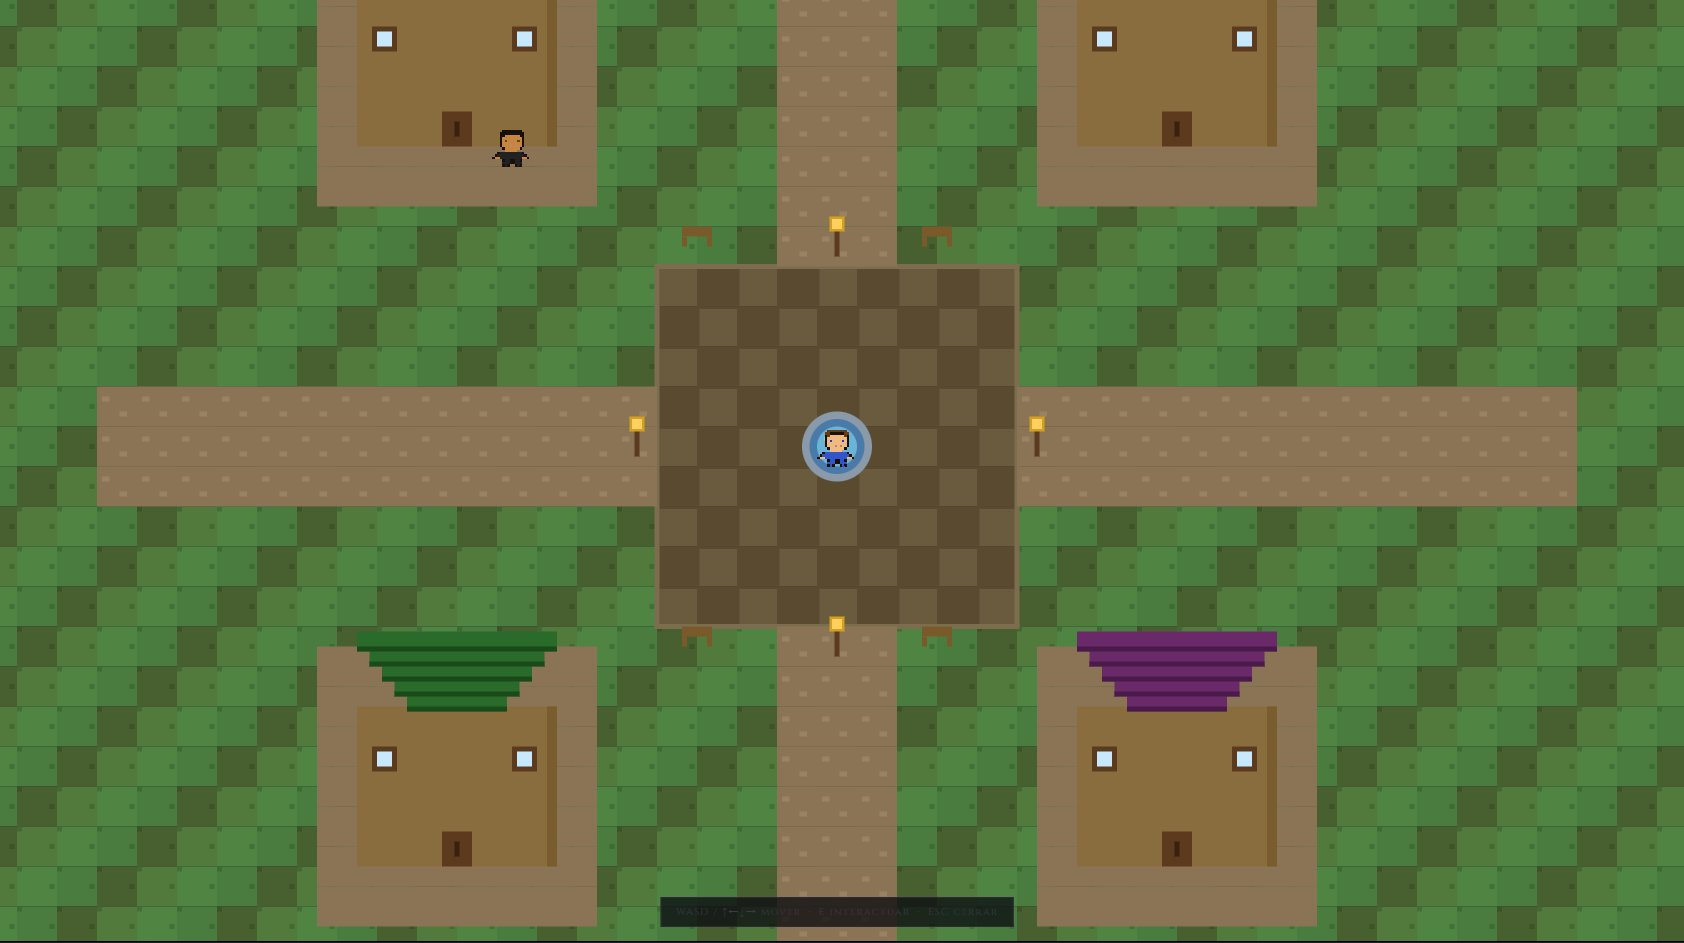
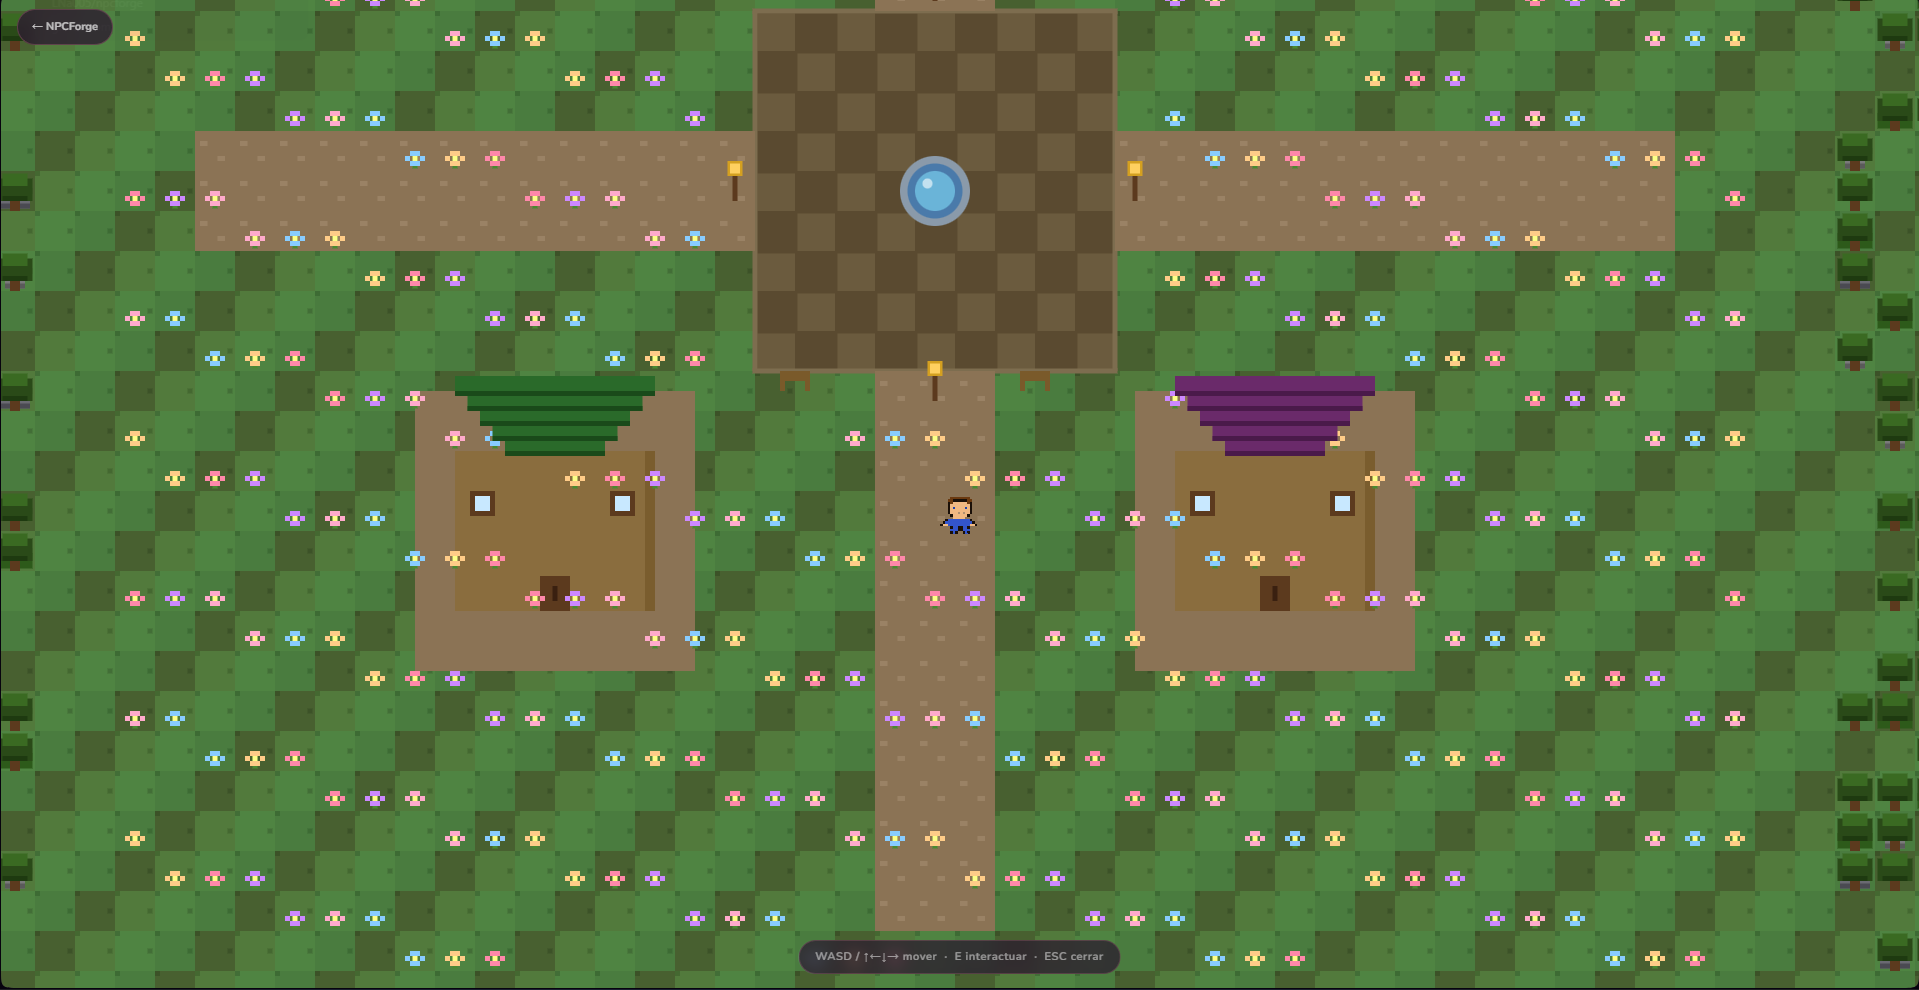
readme

diff --git a/README.md b/README.md
@@ -1,14 +1,25 @@
 <div align="center">
 
+<img src="screenshots/screen_app.png" width="100%" style="border-radius:12px"/>
+
+<br/>
+<br/>
+
 # 🌸 NPCForge ✨
 
-**De la vida real a tu propia aldea virtual 🎀**
+<p>
+  <img src="https://img.shields.io/badge/✦_estado-en_desarrollo-ffb3c6?style=for-the-badge&labelColor=fce4f0"/>
+  <img src="https://img.shields.io/badge/🎮_engine-Phaser_3-d4bfee?style=for-the-badge&labelColor=ede0f8"/>
+  <img src="https://img.shields.io/badge/🤖_IA-Mistral_AI-a8dfc4?style=for-the-badge&labelColor=dff0f4"/>
+  <img src="https://img.shields.io/badge/💾_storage-localStorage-f8c8a8?style=for-the-badge&labelColor=feeee4"/>
+</p>
 
-*Convierte a las personas de tu entorno en NPCs interactivos con análisis psicológico generado por IA ⚡*
+### *Convierte a las personas de tu vida en personajes de RPG*
+### *y vívelos en tu propia aldea virtual* 🎀
 
-![estado](https://img.shields.io/badge/estado-en%20desarrollo-ff6b6b?style=flat-square)
-![stack](https://img.shields.io/badge/stack-vanilla%20js%20%2B%20phaser3-c9a84c?style=flat-square)
-![ia](https://img.shields.io/badge/IA-Mistral-7b5ea7?style=flat-square)
+<br/>
+
+[✦ Ver la app](https://lna005.github.io/npcforge/) &nbsp;&nbsp;·&nbsp;&nbsp; [🌸 Jugar](https://lna005.github.io/npcforge/game/index.html) &nbsp;&nbsp;·&nbsp;&nbsp; [📋 Hoja de ruta](#-hoja-de-ruta)
 
 </div>
 
@@ -16,9 +27,19 @@
 
 ## 💜 ¿Qué es NPCForge?
 
-Describes a alguien de tu vida. La IA genera una **ficha RPG psicológica** completa — stats, motivación oculta, punto débil, cómo ganarte su confianza y misiones de relación 🔮
+> Describes a alguien de tu vida. La IA genera una **ficha RPG psicológica** completa — stats, motivación oculta, punto débil, cómo ganarte su confianza y misiones de relación 🔮
 
-Luego diseñas su sprite en pixel art, lo guardas en tu aldea, y puedes **explorar un mapa top-down** donde caminarás por una aldea con casas, plaza y NPCs que deambulan libremente, responden en personaje y evolucionan según cómo los tratas ⚡
+Diseñas su sprite en pixel art. Lo guardas en tu aldea. Exploras un mapa top-down donde los NPCs deambulan libremente, te responden en personaje y **evolucionan según cómo los tratas** ⚡
+
+<br/>
+
+<div align="center">
+
+| 🧠 Analiza | 🎨 Diseña | 🗺 Explora | 💬 Habla |
+|:---:|:---:|:---:|:---:|
+| La IA convierte a una persona real en una ficha RPG psicológica | Diseña su sprite pixel art 16×16 con el editor integrado | Pasea por la aldea y visita sus casas en el mapa top-down | Habla con ellos en personaje — con opciones de diálogo y misiones |
+
+</div>
 
 ---
 
@@ -26,39 +47,85 @@ Luego diseñas su sprite en pixel art, lo guardas en tu aldea, y puedes **explor
 
 <div align="center">
 
-### 🌸 Generador de fichas RPG
+<table>
+<tr>
+<td width="50%">
+
+**🌸 Generador de fichas**
 ![App](screenshots/screen_app.png)
 
-### 🌸 Aldea explorable
+</td>
+<td width="50%">
+
+**🌸 Aldea explorable**
 ![Game](screenshots/screen_game.png)
+
+</td>
+</tr>
+</table>
 
 </div>
 
 ---
 
-## 🌟 Lo que ya funciona
+## 🌟 Features
 
-🌸 Generación de ficha RPG completa con IA (Mistral)  
-🌸 6 stats psicológicos animados  
-🌸 Editor de sprite pixel art 16×16  
-🌸 Galería "Mi aldea" con tarjetas  
-🌸 Mapa top-down explorable con Phaser.js — pantalla completa  
-🌸 Plaza central con adoquines, fuente, faroles y bancos  
-🌸 Una casa por cada NPC con tejado de color único  
-🌸 Nombre del NPC sobre la puerta de su casa  
-🌸 Nombre flotante encima del sprite del NPC en el mapa  
-🌸 NPCs con movimiento libre (wandering por su zona)  
-🌸 Colisionadores en casas, árboles y fuente  
-🌸 Avatar del jugador personalizable con editor de sprite  
-🌸 Chat con NPCs en personaje vía Mistral  
-🌸 Teclado capturado correctamente durante el chat  
-🌸 Opciones de diálogo clicables — la IA decide cuándo presentarlas  
-🌸 Panel de misiones activas — aparece al acercarte a un NPC  
-🌸 Misiones que se completan automáticamente durante el chat  
-🌸 Notificación dorada al completar una misión  
-🌸 Stats que evolucionan según cómo hablas con el NPC  
-🌸 Chips de cambio de stats visibles en el chat (+/- por cada stat)  
-🌸 Sin servidor, sin registro — todo en `localStorage` 🌷  
+<details open>
+<summary><b>🎮 Juego & Mapa</b></summary>
+<br/>
+
+- 🌸 Mapa top-down explorable — pantalla completa con Phaser.js
+- 🌸 Plaza central con adoquines, fuente, faroles y bancos
+- 🌸 Una casa por cada NPC con tejado de color único
+- 🌸 Bosque exterior con árboles de 3 tamaños distintos
+- 🌸 Arbustos y rocas decorativas en el bosque
+- 🌸 Flores de colores pastel en la zona central
+- 🌸 Lago con colisionador en la esquina del mapa
+- 🌸 NPCs con movimiento libre por su zona
+- 🌸 Avatar del jugador personalizable
+
+</details>
+
+<details open>
+<summary><b>💬 Chat & Misiones</b></summary>
+<br/>
+
+- 🌸 Chat con NPCs en personaje vía Mistral AI
+- 🌸 Opciones de diálogo clicables — la IA decide cuándo presentarlas
+- 🌸 Panel de misiones activas al acercarte a un NPC
+- 🌸 Misiones que se completan automáticamente durante el chat
+- 🌸 Notificación animada al completar una misión
+
+</details>
+
+<details open>
+<summary><b>📈 Stats & Relaciones</b></summary>
+<br/>
+
+- 🌸 6 stats psicológicos que **evolucionan** según cómo hablas
+- 🌸 Chips visuales de cambio de stat en el chat
+- 🌸 Nivel de relación global que cambia en tiempo real
+
+| Nivel | Emoji | Condición |
+|---|:---:|---|
+| Desconocida | 🌫 | Estado inicial |
+| Conocida | 🌸 | Primeras conversaciones positivas |
+| Aliada | 💜 | Alta empatía y lealtad |
+| Rival | ⚔ | Manipulación o ego elevados |
+| Enemiga | 💀 | Relación muy deteriorada |
+
+</details>
+
+<details open>
+<summary><b>🎨 Diseño & UX</b></summary>
+<br/>
+
+- 🌸 Tema pastel girlie en toda la app
+- 🌸 Fuentes Playfair Display + Nunito
+- 🌸 Animaciones y micro-interacciones
+- 🌸 Sin servidor, sin registro — todo en `localStorage`
+
+</details>
 
 ---
 
@@ -66,87 +133,100 @@ Luego diseñas su sprite en pixel art, lo guardas en tu aldea, y puedes **explor
 
 ```
 npcforge/
-├── index.html
-├── README.md
-├── screenshots/
-│   ├── screen_app.png
-│   └── screen_game.png
-├── css/
-│   ├── base.css
-│   ├── layout.css
-│   └── sheet.css
-├── js/
-│   ├── storage.js
-│   ├── gemini.js        ← Mistral API
-│   ├── sprite-editor.js
-│   └── app.js
-└── game/
-    ├── index.html
-    ├── css/
-    │   └── game.css
-    └── js/
-        ├── world.js     ← Mapa Phaser
-        ├── dialog.js    ← Chat con opciones de diálogo
-        ├── missions.js  ← Sistema de misiones
-        └── stats.js     ← Stats dinámicos
+├── 📄 index.html
+├── 📁 screenshots/
+├── 📁 css/
+│   ├── base.css          ✦ Variables, fuentes, animaciones
+│   ├── layout.css        ✦ Header, formulario, galería
+│   └── sheet.css         ✦ Ficha RPG + editor de sprite
+├── 📁 js/
+│   ├── storage.js        ✦ CRUD localStorage
+│   ├── gemini.js         ✦ Mistral API
+│   ├── sprite-editor.js  ✦ Editor pixel art 16×16
+│   └── app.js            ✦ Controlador principal
+└── 📁 game/
+    ├── 📄 index.html
+    ├── 📁 css/
+    │   └── game.css      ✦ Estilos del juego
+    └── 📁 js/
+        ├── world.js      ✦ Mapa Phaser, NPCs, decoración
+        ├── dialog.js     ✦ Chat con opciones de diálogo
+        ├── missions.js   ✦ Sistema de misiones
+        └── stats.js      ✦ Stats dinámicos + relaciones
 ```
 
 ---
 
 ## 🗺 Hoja de ruta
 
+### 🐛 Pendiente / bugs
+- [ ] 🌊 Mejorar el lago — forma y detalle visual
+- [ ] 🌸 Quitar flores de encima de caminos y casas
+- [ ] 📸 Actualizar screenshots con el nuevo diseño pastel
+
+### 📋 Fase 4 — Misiones *(completada)*
+- [x] 🌸 Panel HUD con misiones activas
+- [x] 🌸 Completar misiones durante el chat con IA
+- [x] 🌸 Notificación animada al completar
+- [x] 🌸 Opciones de diálogo clicables
+
 ### 📈 Fase 5 — Relaciones vivas *(en progreso)*
-- [x] 🌸 Stats que evolucionan según cómo hablas con el NPC
-- [x] 🌸 Chips visuales de cambio de stat en el chat
-- [ ] 🌸 Nivel de relación global (desconocido → aliado → rival…)
+- [x] 🌸 Stats evolutivos con chips visuales
+- [x] 🌸 Nivel de relación global (5 estados)
+- [x] 🌸 Badge de relación en tiempo real
 - [ ] 🌸 Historial de relación con cada NPC
 
 ### 🎮 Fase 6 — Animaciones
 - [ ] 🌸 Caminar en 4 direcciones (sprite sheet)
 - [ ] 🌸 Idle animation
-- [ ] 🌸 Animación de NPCs más natural
+- [ ] 🌸 Movimiento más natural de los NPCs
 
 ### 📱 Fase 7 — App nativa
-- [ ] 🌸 Versión de escritorio (Electron o Tauri)
-- [ ] 🌸 Versión móvil (Capacitor o PWA)
-- [ ] 🌸 Controles táctiles para el mapa
+- [ ] 🌸 Escritorio (Electron o Tauri)
+- [ ] 🌸 Móvil (Capacitor o PWA)
+- [ ] 🌸 Controles táctiles
 
 ### 🌐 Fase 8 — Servidor y multijugador
 - [ ] 🌸 Backend propio (Node.js + base de datos)
-- [ ] 🌸 Registro y login de usuarios
+- [ ] 🌸 Login y cuentas de usuario
 - [ ] 🌸 Aldeas guardadas en la nube
-- [ ] 🌸 Multijugador — *por definir* (¿visitar aldeas ajenas? ¿eventos globales? ¿NPCs compartidos?)
+- [ ] 🌸 Multijugador *(por definir)*
 
 ### 🌈 Ideas futuras
 - [ ] 🌸 Exportar ficha como imagen compartible
-- [ ] 🌸 Comparar dos NPCs
-- [ ] 🌸 Backup / import JSON de la aldea completa
-- [ ] 🌸 Explorar aldeas públicas de otros jugadores
-- [ ] 🌸 Música y efectos de sonido ambient
+- [ ] 🌸 Comparar dos NPCs cara a cara
+- [ ] 🌸 Música ambient y efectos de sonido
 - [ ] 🌸 Ciclo día/noche en el mapa
+- [ ] 🌸 Explorar aldeas públicas de otros jugadores
 
 ---
 
-## 🛠 Stack actual
+## 🛠 Stack
 
-🍦 **Vanilla JS** — sin frameworks, sin npm  
-🤖 **Mistral AI** — `mistral-small-latest`, free tier  
-🎮 **Phaser 3** — motor 2D via CDN  
-💾 **localStorage** — persistencia local  
-🎨 **CSS custom properties** — theming completo  
+<div align="center">
 
-## 🔭 Stack futuro *(tentativo)*
+| Capa | Tecnología | Notas |
+|---|---|---|
+| Frontend | Vanilla JS | Sin frameworks, sin npm |
+| Motor de juego | Phaser 3 | Via CDN |
+| IA | Mistral AI `mistral-small-latest` | Free tier |
+| Persistencia | localStorage | Sin servidor |
+| Fuentes | Playfair Display + Nunito | Google Fonts |
+| *(futuro)* App nativa | Electron / Tauri / Capacitor | — |
+| *(futuro)* Servidor | Node.js + Express | — |
+| *(futuro)* Base de datos | PostgreSQL o SQLite | — |
+| *(futuro)* Tiempo real | WebSockets | Para multijugador |
 
-🖥 **Electron / Tauri** — app de escritorio  
-📱 **Capacitor / PWA** — app móvil  
-⚙ **Node.js + Express** — servidor  
-🗄 **PostgreSQL o SQLite** — base de datos  
-🔌 **WebSockets** — tiempo real para multijugador  
+</div>
 
 ---
 
 <div align="center">
 
 *Hecho con demasiado amor, "mostesito" y ganas 💜*
+
+⸻
+
+*🌸 &nbsp; ✦ &nbsp; 🌸 &nbsp; ✦ &nbsp; 🌸*
 
 </div>
